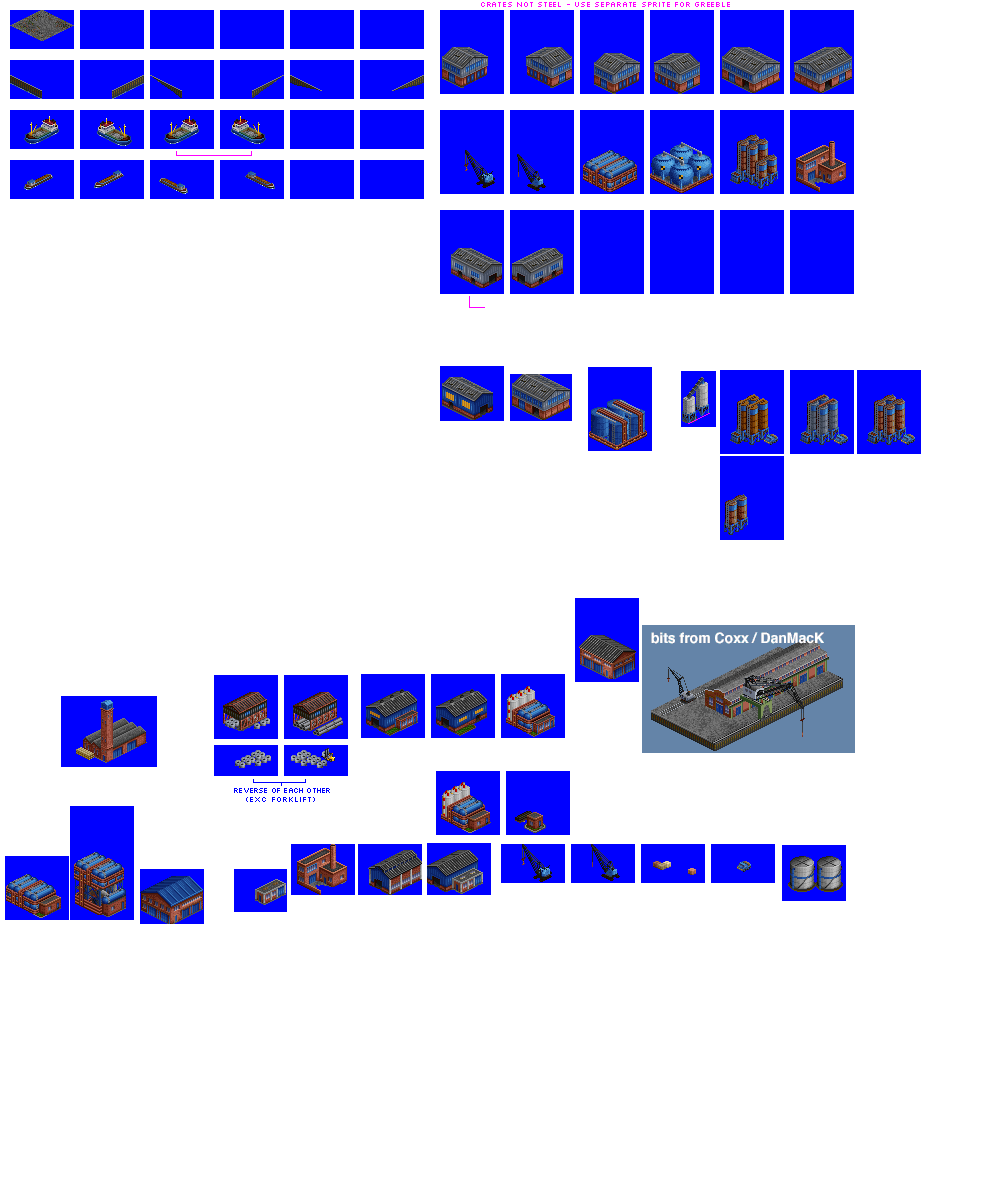
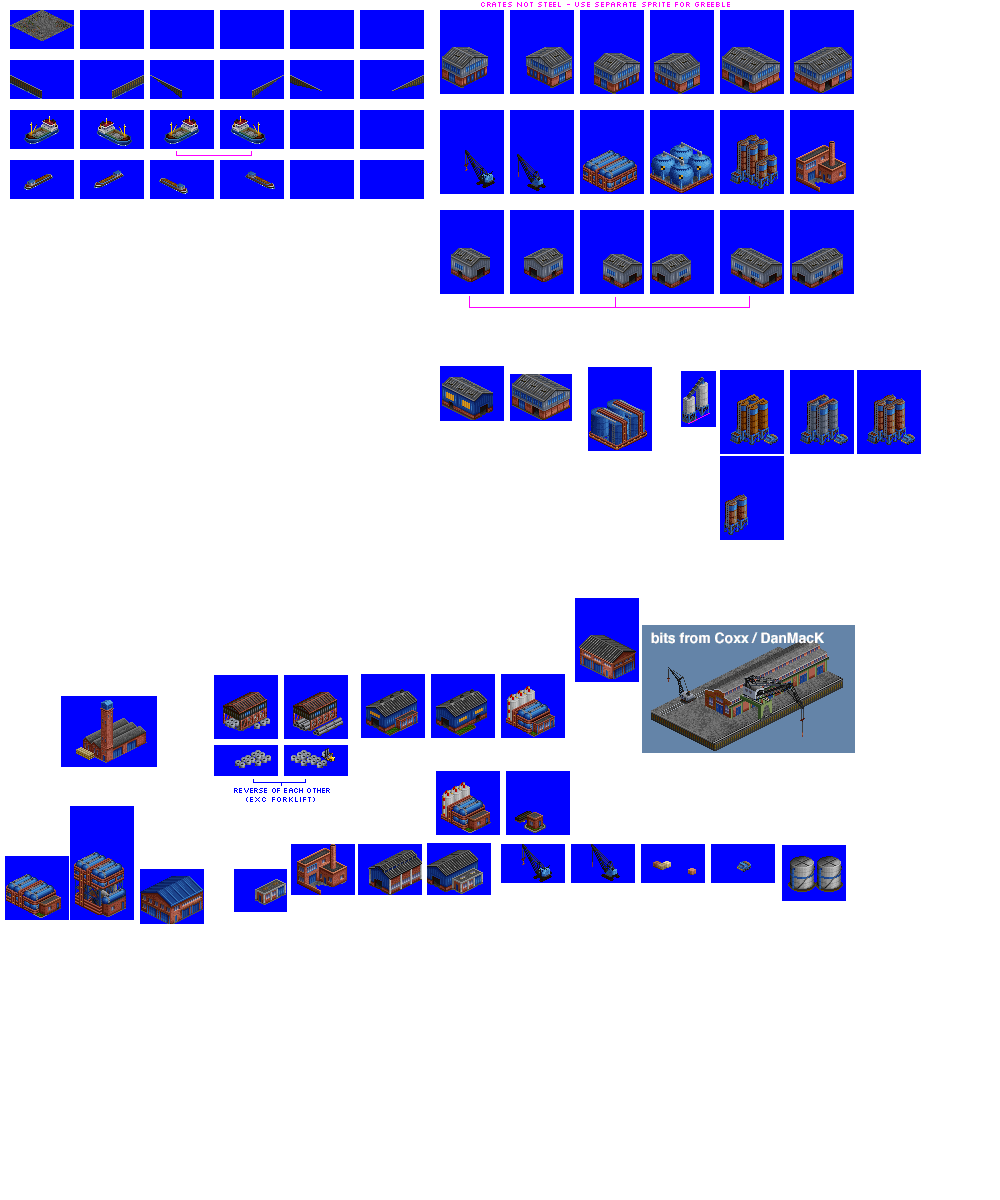
Change: introduce a half-shed for Port, to prevent effect of sheds with doors opening directly onto water

Changed region(s): [[0.589, 0.185, 0.837, 0.2467], [0.465, 0.2158, 0.558, 0.2467]]

diff --git a/src/industries/port.py b/src/industries/port.py
@@ -140,17 +140,29 @@ spriteset_warehouse_half_se_nw = industry.add_spriteset(
 spriteset_warehouse_half_sw_ne = industry.add_spriteset(
     sprites=[(650, 10, 64, 84, -31, -61)],
 )
-spriteset_warehouse_nw_se = industry.add_spriteset(
+spriteset_warehouse_full_nw_se = industry.add_spriteset(
     sprites=[(720, 10, 64, 84, -31, -61)],
 )
-spriteset_warehouse_ne_sw = industry.add_spriteset(
+spriteset_warehouse_full_ne_sw = industry.add_spriteset(
     sprites=[(790, 10, 64, 84, -31, -61)],
 )
-spriteset_shed_nw_se = industry.add_spriteset(
+spriteset_shed_half_nw_se = industry.add_spriteset(
     sprites=[(440, 210, 64, 84, -31, -61)],
 )
-spriteset_shed_ne_sw = industry.add_spriteset(
+spriteset_shed_half_ne_sw = industry.add_spriteset(
     sprites=[(510, 210, 64, 84, -31, -61)],
+)
+spriteset_shed_half_se_nw = industry.add_spriteset(
+    sprites=[(580, 210, 64, 84, -31, -61)],
+)
+spriteset_shed_half_sw_ne = industry.add_spriteset(
+    sprites=[(650, 210, 64, 84, -31, -61)],
+)
+spriteset_shed_full_nw_se = industry.add_spriteset(
+    sprites=[(720, 210, 64, 84, -31, -61)],
+)
+spriteset_shed_full_ne_sw = industry.add_spriteset(
+    sprites=[(790, 210, 64, 84, -31, -61)],
 )
 # horizontal tanks use the same sprite, but adjusted offsets for each coast
 spriteset_tanks_horizontal_nw_se = industry.add_spriteset(
@@ -376,23 +388,23 @@ industry.add_magic_spritelayout(
         "jetty_top_sprites": [spriteset_concrete],
         "building_sprites": {
             "se": [
-                spriteset_warehouse_nw_se,
+                spriteset_warehouse_full_nw_se,
             ],
             "sw": [
-                spriteset_warehouse_ne_sw,
+                spriteset_warehouse_full_ne_sw,
             ],
             "nw": [
-                spriteset_warehouse_nw_se,
+                spriteset_warehouse_full_nw_se,
             ],
             "ne": [
-                spriteset_warehouse_ne_sw,
+                spriteset_warehouse_full_ne_sw,
             ],
         },
     },
 )
 industry.add_magic_spritelayout(
     type="jetty_auto_orient_to_coast_direction",
-    base_id="port_spritelayout_shed_auto_orient",
+    base_id="port_spritelayout_shed_half_1_auto_orient",
     tile="port_tile_1",
     config={
         "ground_sprite": spriteset_ground_empty,  # should always be empty for this magic spritelayout
@@ -400,19 +412,76 @@ industry.add_magic_spritelayout(
         "jetty_top_sprites": [spriteset_concrete],
         "building_sprites": {
             "se": [
-                spriteset_shed_nw_se,
+                spriteset_shed_half_nw_se,
                 spriteset_crawler_crane_nw_se,
             ],
             "sw": [
-                spriteset_shed_ne_sw,
+                spriteset_shed_half_ne_sw,
                 spriteset_crawler_crane_ne_sw,
             ],
             "nw": [
-                spriteset_shed_nw_se,
+                spriteset_shed_half_se_nw,
                 spriteset_crawler_crane_nw_se,
             ],
             "ne": [
-                spriteset_shed_ne_sw,
+                spriteset_shed_half_sw_ne,
+                spriteset_crawler_crane_ne_sw,
+            ],
+        },
+    },
+)
+industry.add_magic_spritelayout(
+    type="jetty_auto_orient_to_coast_direction",
+    base_id="port_spritelayout_shed_half_2_auto_orient",
+    tile="port_tile_1",
+    config={
+        "ground_sprite": spriteset_ground_empty,  # should always be empty for this magic spritelayout
+        "foundation_sprites": [spriteset_jetty_ne_sw, spriteset_jetty_se_nw],
+        "jetty_top_sprites": [spriteset_concrete],
+        # reversed variant of the half-shed for alternate end of the shed
+        "building_sprites": {
+            "se": [
+                spriteset_shed_half_se_nw,
+                spriteset_crawler_crane_nw_se,
+            ],
+            "sw": [
+                spriteset_shed_half_sw_ne,
+                spriteset_crawler_crane_ne_sw,
+            ],
+            "nw": [
+                spriteset_shed_half_nw_se,
+                spriteset_crawler_crane_nw_se,
+            ],
+            "ne": [
+                spriteset_shed_half_ne_sw,
+                spriteset_crawler_crane_ne_sw,
+            ],
+        },
+    },
+)
+industry.add_magic_spritelayout(
+    type="jetty_auto_orient_to_coast_direction",
+    base_id="port_spritelayout_shed_full_auto_orient",
+    tile="port_tile_1",
+    config={
+        "ground_sprite": spriteset_ground_empty,  # should always be empty for this magic spritelayout
+        "foundation_sprites": [spriteset_jetty_ne_sw, spriteset_jetty_se_nw],
+        "jetty_top_sprites": [spriteset_concrete],
+        "building_sprites": {
+            "se": [
+                spriteset_shed_full_nw_se,
+                spriteset_crawler_crane_nw_se,
+            ],
+            "sw": [
+                spriteset_shed_full_ne_sw,
+                spriteset_crawler_crane_ne_sw,
+            ],
+            "nw": [
+                spriteset_shed_full_nw_se,
+                spriteset_crawler_crane_nw_se,
+            ],
+            "ne": [
+                spriteset_shed_full_ne_sw,
                 spriteset_crawler_crane_ne_sw,
             ],
         },
@@ -463,8 +532,8 @@ industry.add_industry_jetty_layout(
         # additional spacing at end of jetty (for better clearance in map edge context), only one tile needed for this
         (1, 8, "spritelayout_null_water"),
         # ensure spacing from coast, to improve map-gen buildabilty
-        (2, 2, "port_spritelayout_shed_auto_orient"),
-        (2, 3, "port_spritelayout_shed_auto_orient"),
+        (2, 2, "port_spritelayout_shed_half_2_auto_orient"),
+        (2, 3, "port_spritelayout_shed_full_auto_orient"),
         (2, 4, "port_spritelayout_warehouse_half_auto_orient"),
         (2, 5, "port_spritelayout_tanks_small_auto_orient"),
         (2, 6, "port_spritelayout_tanks_sphere_auto_orient"),
@@ -487,8 +556,8 @@ industry.add_industry_jetty_layout(
         (1, 2, "port_spritelayout_silos_1_auto_orient"),
         (1, 3, "port_spritelayout_silos_1_auto_orient"),
         (1, 4, "port_spritelayout_warehouse_half_auto_orient"),
-        (1, 5, "port_spritelayout_shed_auto_orient"),
-        (1, 6, "port_spritelayout_shed_auto_orient"),
+        (1, 5, "port_spritelayout_shed_full_auto_orient"),
+        (1, 6, "port_spritelayout_shed_half_1_auto_orient"),
         (1, 7, "spritelayout_null_water"),
         (2, 0, "port_spritelayout_coast_gatehouse"),
         (2, 1, "port_spritelayout_warehouse_full_auto_orient"),
